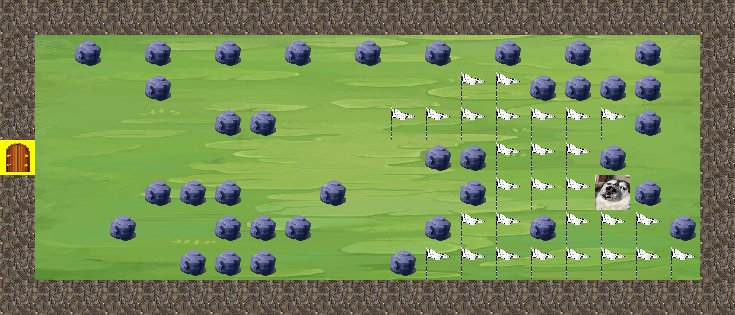
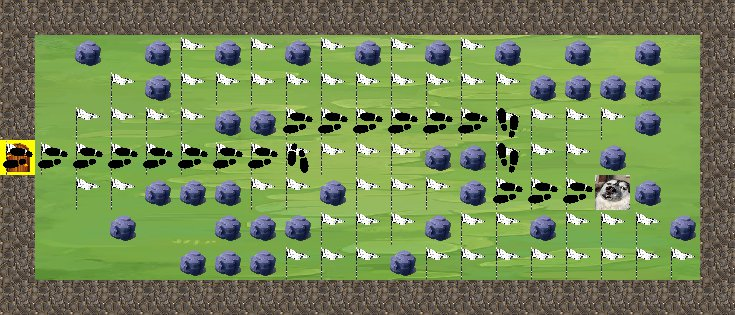
Chay tren window OK - Thieu file run.sh TT.TT

diff --git a/main.py b/main.py
@@ -18,15 +18,21 @@ if __name__ == '__main__':
                 running = False
         for i in range(1,6):
             maze = None
-            for choice in algo_search.keys():
-                input = 'input/level_1/input%d'%i + '.txt'
-                output = 'output/level_1/input%d'%i + '/' + algo_search[choice] + '/' + algo_search[choice]
-                pygame.display.set_caption(output + '.mp4')
-
-                maze = MAZE(input)
-                draw_maze = Draw_MAZE(maze, output)
-                draw_maze.run(choice)
-
+            input = 'input/level_1/input%d'%i + '.txt'
+            for choice in algo_search.keys():    
+                if choice == 4 or choice == 5:
+                    for heur in range(1,3):
+                        output = 'output/level_1/input%d'%i + '/' + algo_search[choice] + '/' + algo_search[choice] + '_heuristic_%d'%heur
+                        pygame.display.set_caption(output + '.mp4')
+                        maze = MAZE(input)
+                        draw_maze = Draw_MAZE(maze, output)
+                        draw_maze.run(choice, heur)
+                else:
+                    output = 'output/level_1/input%d'%i + '/' + algo_search[choice] + '/' + algo_search[choice]
+                    pygame.display.set_caption(output + '.mp4')
+                    maze = MAZE(input)
+                    draw_maze = Draw_MAZE(maze, output)
+                    draw_maze.run(choice)
                 # Kết thúc vòng lặp
                 if (choice == 5 and i == 5):
                     running = False

diff --git a/visualization.py b/visualization.py
@@ -47,7 +47,7 @@ class Draw_MAZE:
             temp.append(((path[1] * size[0], path[0] * size[1]), size))
         return temp
 
-    def run(self, choice):
+    def run(self, choice, heuristic = 1):
         conv_walls = self.convert_path(self.maps.walls, self.size_per_section)
         conv_barriers = self.convert_path(self.maps.barriers, self.size_per_section)
         
@@ -94,9 +94,9 @@ class Draw_MAZE:
         if (choice == 3):
             pos = algo.ucs()
         if (choice == 4):
-            pos = algo.gbfs()
+            pos = algo.gbfs(heuristic)
         if (choice == 5):
-            pos = algo.A_star()  
+            pos = algo.A_star(heuristic)  
         if pos == None:
             with open(self.fileOut +'.txt', 'w') as f:
                 f.write('NO')

diff --git a/capture.py b/capture.py
@@ -1,14 +1,15 @@
 import pygame, os 
 
 class Capture:
-    def __init__(self, path):
-        self.path = path
-        
+    def __init__(self, path):        
+        split_path = path.split('/')
+        self.name = split_path[len(split_path) - 1]
+        self.path = path[:-len(self.name)]
         try: 
             os.makedirs(self.path)
         except OSError:
             pass
 
     def make_png(self, screen):
-        fullpath = self.path + ".jpg"
+        fullpath = self.path + self.name + ".jpg"
         pygame.image.save(screen, fullpath)
